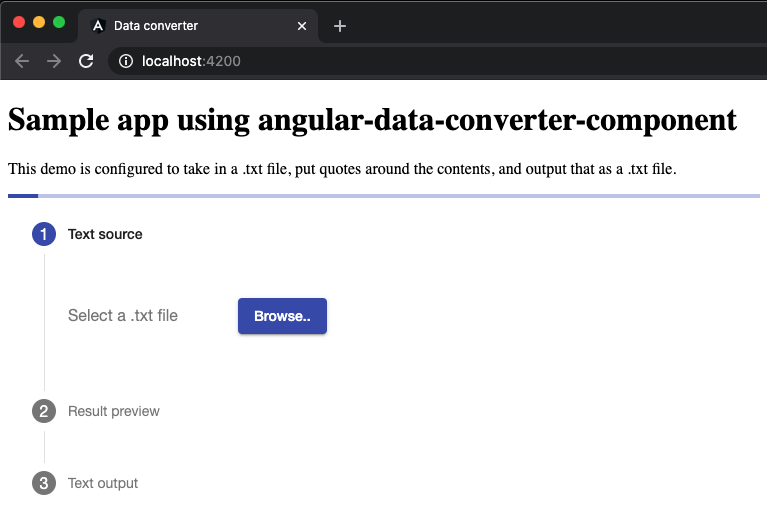
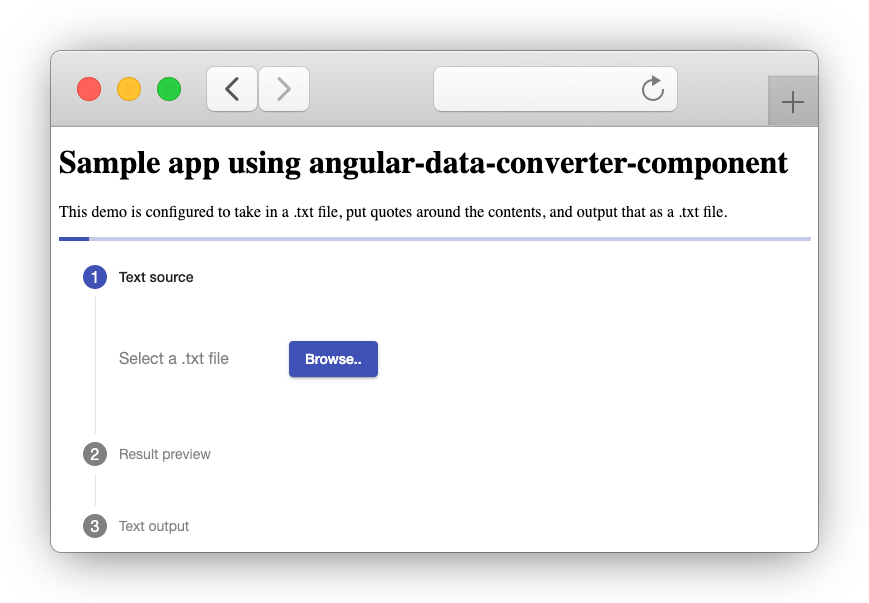
docs: README

diff --git a/projects/data-converter/README.md b/projects/data-converter/README.md
@@ -3,59 +3,61 @@ An Angular component that allows users to select a file and convert it to anothe
 
 Requires Angular 9.x.x
 
+![Screenshot of an app that uses angular-data-converter-component](https://raw.githubusercontent.com/EdwinOtten/angular-data-converter-component/master/readme_assets/screenshot_sample_app.png)
+
 ## How to use
 
 1. Install the component:
-```
-npm install angular-data-converter-component
-```
+    ```
+    npm install angular-data-converter-component
+    ```
 
 2. Import the module into your Angular module. Add to `app.module.ts`:
-```ts
-import { DataConverterModule } from 'angular-data-converter-component'
+    ```ts
+    import { DataConverterModule } from 'angular-data-converter-component'
 
-...
-
-  imports: [
     ...
-    DataConverterModule,
-  ]
-```
 
-3. Implement [IDataConverterService](https://github.com/EdwinOtten/angular-data-converter-component/blob/master/projects/data-converter/lib/idata-converter-service.ts). You need this implementation in the next step (where it is called `MyDataConverter`).
+    imports: [
+        ...
+        DataConverterModule,
+    ]
+    ```
+
+3. Implement [IDataConverterService](https://github.com/EdwinOtten/angular-data-converter-component/blob/master/projects/data-converter/src/lib/idata-converter-service.ts). You need this implementation in the next step (where it's called `MyDataConverter`).
 
 4. Setup the config. Add to `*.component.ts`:
-```ts
-import { DataConverterConfig } from 'angular-data-converter-component'
+    ```ts
+    import { DataConverterConfig } from 'angular-data-converter-component'
 
-...
+    ...
 
-  config: DataConverterConfig = {
-    inputFileExtensions: ['.txt'],
-    converterService: new MyDataConverter(),
-    labels: {
-      sourceStep: {
-        title: 'Text source',
-        description: '',
-      },
-      previewStep: {
-        title: 'Result preview',
-        description: 'Check out your text, it now has quotes around it!',
-      },
-      outputStep: {
-        title: 'Text output',
-        description: 'Download your text with quotes around it below.',
-      },
+    config: DataConverterConfig = {
+        inputFileExtensions: ['.txt'],
+        converterService: new MyDataConverter(),
+        labels: {
+        sourceStep: {
+            title: 'Text source',
+            description: '',
+        },
+        previewStep: {
+            title: 'Result preview',
+            description: 'Check out your text, it now has quotes around it!',
+        },
+        outputStep: {
+            title: 'Text output',
+            description: 'Download your text with quotes around it below.',
+        },
 
-      selectFile: 'Select a .txt file',
-    },
-  }
-```
+        selectFile: 'Select a .txt file',
+        },
+    }
+    ```
 
 5. Add the component to your html template. Add to `*.component.html`:
-```html
-<lib-data-converter [config]="config"></lib-data-converter>
-```
+    ```html
+    <lib-data-converter [config]="config"></lib-data-converter>
+    ```
 
 ## Example
 
